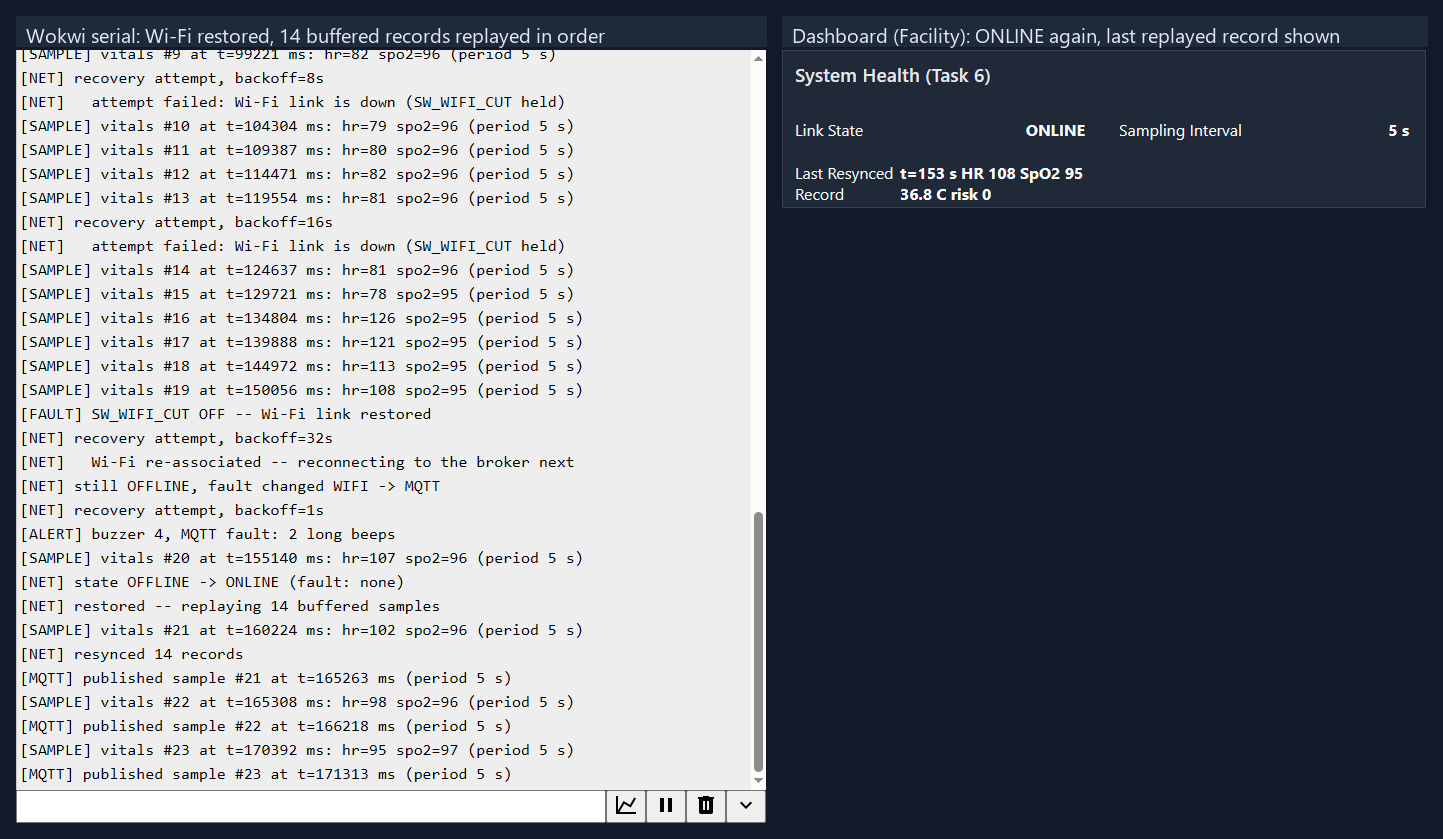
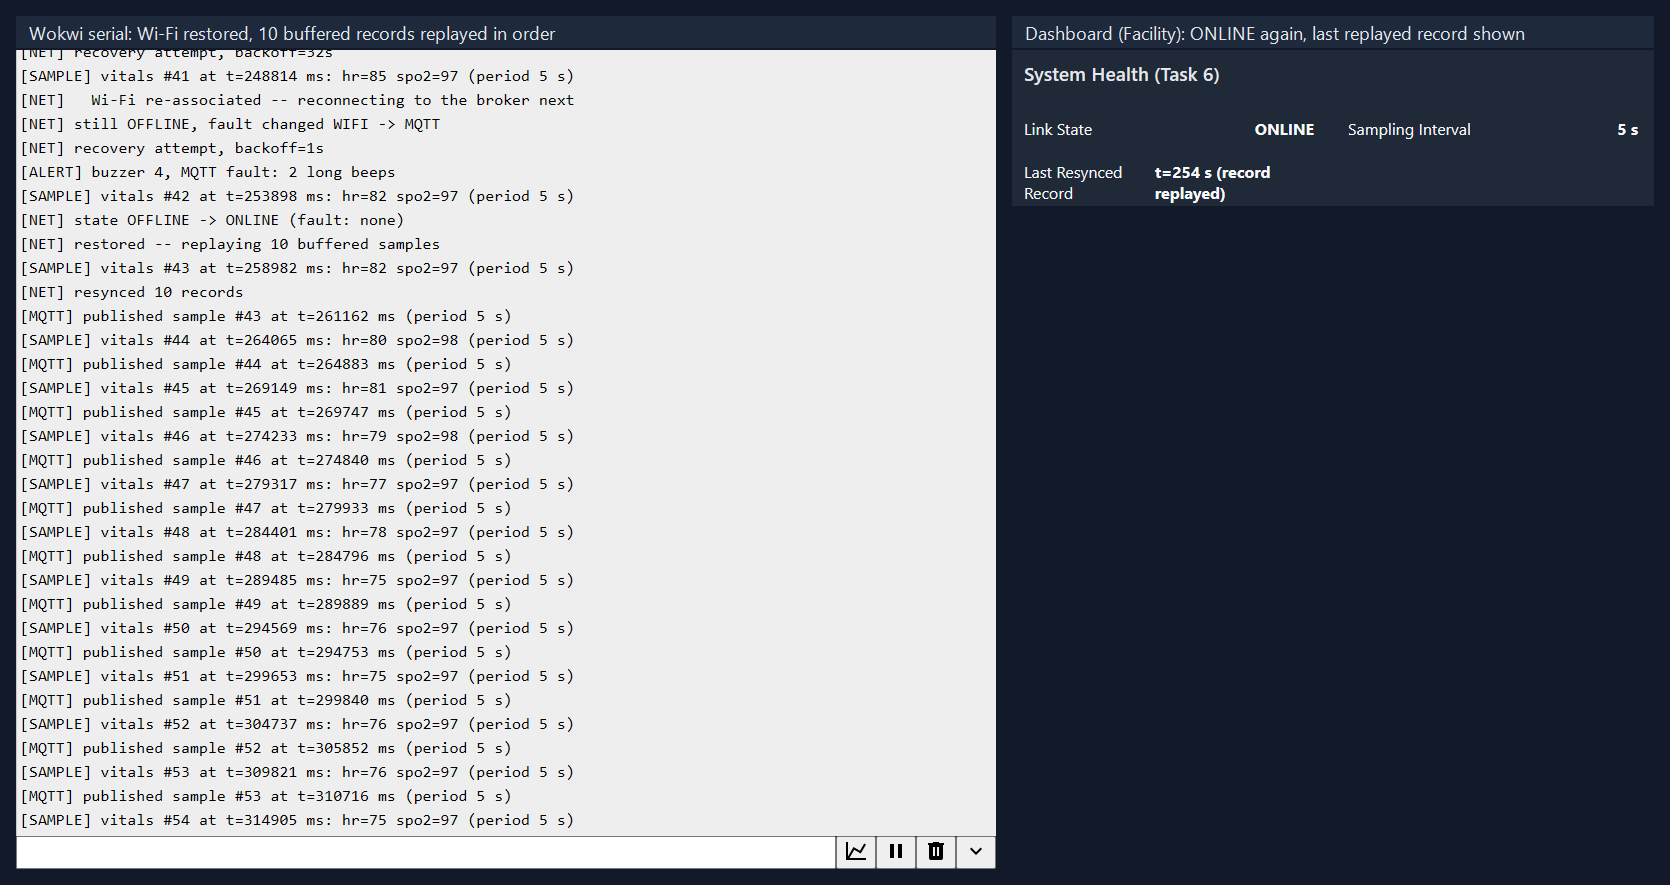
Facility dashboard: the System Health card no longer shows patient values
The "Last Resynced Record" card on the Facility tab printed the whole replayed
backlog record (heart rate, SpO2, body temperature, risk), which contradicts the
topic-level role separation the dashboard exists to demonstrate. The "compact
backlog" function node now reduces each record to the device time it was sampled
at ("t=254 s (record replayed)"); the Medical tab and the broker feeds are
unchanged. Node count stays 84.

- tools/gen_flows.py, dashboards/node-red-flows.json: regenerated (only the
  compact-backlog function differs)
- screenshots/10-backlog-resync.png: retaken from a real run with the fixed flow
  (serial: replaying 10 buffered samples / resynced 10 records)
- screenshots/README.md, docs/NODE_RED_SETUP.md, dashboards/facility-dashboard.md:
  describe the card as built

Changed region(s): [[0.0, 0.031, 0.9356, 0.9917], [0.9667, 0.124, 0.9979, 0.1549]]

diff --git a/tools/gen_flows.py b/tools/gen_flows.py
@@ -150,10 +150,13 @@ COMPACT = {
         "  msg.payload = 'n=' + j.n + '  ' + Number(j.room_avg).toFixed(1) + ' C  O2 ' + Number(j.o2_avg).toFixed(1)"
         " + '%  AQI ' + j.aqi_avg + ' (max ' + j.aqi_max + ')'; } catch (e) {}\n"
         "return msg;",
+    # The replayed record carries heart rate / SpO2 / temperature, so the FACILITY tab must never show it:
+    # this card shows only WHEN a record was replayed (the Medical tab's data feeds are unaffected).
     "system.backlog":
+        "let s = 'record replayed';\n"
         "try { const j = (typeof msg.payload === 'string') ? JSON.parse(msg.payload) : msg.payload;\n"
-        "  msg.payload = 't=' + Math.round(j.t / 1000) + ' s  HR ' + j.hr + '  SpO2 ' + j.spo2"
-        " + '  ' + Number(j.bt).toFixed(1) + ' C  risk ' + j.risk; } catch (e) {}\n"
+        "  if (j && j.t != null) s = 't=' + Math.round(j.t / 1000) + ' s  (record replayed)'; } catch (e) {}\n"
+        "msg.payload = s;\n"
         "return msg;",
 }
 for feed, label, fmt, group, order in TEXTS:

diff --git a/screenshots/README.md b/screenshots/README.md
@@ -4,8 +4,12 @@ Twelve required evidence shots and three bonus shots, all taken on **13 October 
 **final firmware** (`main.ino` SHA-256 `9e69da71…`, see `docs/evidence/tested_files_sha256.txt`)
 running in the Wokwi simulator, with the Node-RED dashboards (`dashboards/node-red-flows.json`,
 84 nodes) subscribed to the live public broker. They were captured by the verification tooling
-(headless Chrome), not edited by hand. Two honest notes apply to all of them:
+(headless Chrome), not edited by hand. Three honest notes apply to them:
 
+* `10-backlog-resync.png` was **retaken on 17 October 2026**, with the same firmware: the Facility
+  "Last Resynced Record" card used to print the whole replayed record (heart rate, SpO₂,
+  temperature), which contradicts the role separation, so the flow now shows only the time of the
+  record (`tools/gen_flows.py`, `compact backlog` node). All other shots are from 13 October.
 * The Wokwi page shows **SIGN IN** in the corner because the rig opens the public project in an
   anonymous session and types the repository files into it; nothing is saved to the Wokwi account.
 * The simulated patient has rare random episodes (a heart rate below 60 or above 120 raises a
@@ -24,7 +28,7 @@ running in the Wokwi simulator, with the Node-RED dashboards (`dashboards/node-r
 | `07-bed-control.png` | 4 | **Composite** of real captures: Wokwi pane (servo horn at 60°, serial `[BED]` 1°/25 ms ramp) beside the dashboard's Bed Angle slider and Actual Bed Angle gauge (60) |
 | `08-sampling-adaptive.png` | 5 | **Composite**: serial `[RATE] auto-adapt: 30 s -> 5 s` on a heart rate of 53, back to `5 s -> 30 s` after stable samples, beside the Facility "Sampling Interval" and the Adaptive Sampling switch |
 | `09-offline-banner.png` | 6 | Wi-Fi cut in the circuit: `*** LINK FAILURE ***`, `LOGGING OFFLINE`, `Cause: WIFI`, `Buffered: 9`, `Retry in 25s`, dose footer still shown, **amber LED lit** |
-| `10-backlog-resync.png` | 6 | **Composite**: serial `[NET] restored -- replaying 14 buffered samples` / `resynced 14 records` beside the Facility System Health card (ONLINE, last replayed record) |
+| `10-backlog-resync.png` | 6 | **Composite**: serial `[NET] restored -- replaying 10 buffered samples` / `resynced 10 records` beside the Facility System Health card (ONLINE, `Last Resynced Record` = only the time, `t=254 s (record replayed)` — the card shows no patient values) |
 | `11-wokwi-circuit.png` | 1 | The complete circuit — all 26 parts, six slide switches along the top |
 | `12-serial-monitor.png` | 1 | Boot log from the top: banner, `[BOOT] 10 FreeRTOS tasks started`, `[BOOT] task watchdog armed: 20 s timeout`, `[NET]` OFFLINE → ONLINE and the first resync |
 | `13-bonus-node-red-flow.png` | 2 | The 84-node dashboard flow in the Node-RED editor (including the three "compact …" formatter nodes) |

diff --git a/dashboards/facility-dashboard.md b/dashboards/facility-dashboard.md
@@ -47,6 +47,16 @@ the demo video.
 | Environment Trend | `facility.room-temperature` + `facility.aqi` | Line chart | 1 hour |
 | Environmental Alert Log | `facility.alerts` | Stream | `[LEVEL] message` |
 | 60 s Aggregate | `facility.summary` | Text | JSON avg/max |
+| System Health (Task 6, as built) | `system.state`, `system.sampling-rate`, `system.backlog` | Text | link state, sampling interval, `t=… s (record replayed)` |
+
+**As built — the System Health group.** The flow (`tools/gen_flows.py`) adds a *System Health
+(Task 6)* group to this tab. It is fed by the device-level `system.*` feeds, not by any
+`medical.*` feed. The replayed backlog records on `system.backlog` do contain heart rate,
+SpO₂ and temperature, so the `compact backlog` function node reduces each record to the
+device time it was sampled at (`t=254 s (record replayed)`) before it is sent to the browser:
+no patient value reaches the Facility tab, which is what the separation above requires
+(an earlier build printed the whole record here; screenshot `10-backlog-resync.png` was
+retaken with the fixed flow).
 
 ---
 

diff --git a/docs/NODE_RED_SETUP.md b/docs/NODE_RED_SETUP.md
@@ -21,7 +21,7 @@ the UI, not just asserted in the report.
 | Heart rate, SpO₂, body temp gauges with clinical thresholds | Room temp, oxygen, AQI gauges with safe-range bands |
 | Blood pressure, ECG, clinical status, 60 s aggregate | Humidity, occupancy, 60 s aggregate |
 | Vitals trend chart (1 h) | Environment trend chart (1 h) |
-| **Therapy Control** — 3 sliders, 3 toggles, 3 preset buttons | **System Health** — link state, sampling interval, resync log |
+| **Therapy Control** — 3 sliders, 3 toggles, 3 preset buttons | **System Health** — link state, sampling interval, time of the last resynced record (no patient values) |
 | **Actuator readback** — delivered dose + actual bed angle | Environmental alert log (last 30) |
 | Clinical alert log (last 30) | |
 
